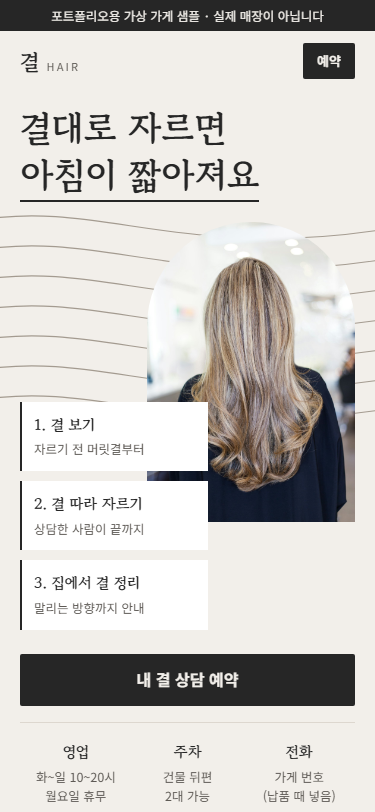
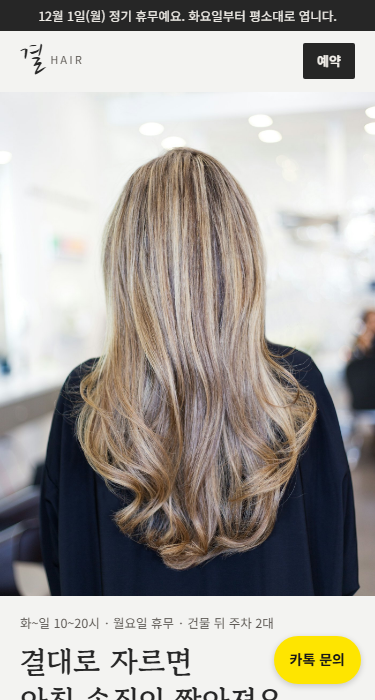
블라인드 6회 전 수정: 사진 겹침·꽉 찬 사진 띠, 투박한 문장, 카톡 상담 버튼, '예시' 문구 정리 + 캡처·6종 이미지 새로

diff --git a/samples/consulting.html b/samples/consulting.html
@@ -168,6 +168,8 @@ footer{border-top:1px solid var(--line);margin-top:var(--sec);padding:var(--s3) 
 }
 .disclose{font-weight:700;margin-bottom:6px}
 .logo{font-family:'Nanum Myeongjo',serif !important;font-size:21px !important;font-weight:400 !important;letter-spacing:0 !important}
+.bleed{margin:0}.bleed img{width:100%;height:46vh;min-height:260px;object-fit:cover}.bleed figcaption{font-size:var(--fs-small);color:var(--muted);padding:6px 16px 0;max-width:980px;margin:0 auto}
+.chat-fab{position:fixed;right:14px;bottom:16px;z-index:9;display:flex;align-items:center;min-height:48px;padding:0 16px;border-radius:24px;background:#FEE500;color:#191919;font-weight:700;font-size:14px;box-shadow:0 2px 6px rgba(0,0,0,.18)}
 </style>
 <!-- 구조화 데이터. 가상 샘플이라 주소는 가상 값. 납품 때는 고객이 준 정보만 넣는다 -->
 <script type="application/ld+json">
@@ -193,12 +195,13 @@ footer{border-top:1px solid var(--line);margin-top:var(--sec);padding:var(--s3) 
     <div class="hero" id="top">
       <h1>장부를 보면<br>다음 달에 할 일<br>하나가 보입니다.</h1>
       <p class="lead">창업 준비, 매출 점검, 정부지원사업 서류를 봅니다. 최근 석 달 매출 자료를 들고 <a class="inl" href="#contact">첫 상담 30분을 신청</a>해 주세요. 자료가 없으면 카드 매출 내역만 있어도 됩니다.</p>
-      <p class="fig num">상담 예시(동네 분식집): 버려진 재료 <b>68만 원</b> / 남은 돈 212만 원</p>
+      <p class="fig num">지난달 분식집 상담에서 본 숫자: 버려진 재료 <b>68만 원</b> / 남은 돈 212만 원</p>
     </div>
   </div>
 </div>
 
 <main>
+  <figure class="bleed"><img src="img/consulting/1.jpg" width="1400" height="933" alt="테이블에 모여 메모하며 회의하는 사람들"><figcaption>화요일 오후 상담실</figcaption></figure>
   <section aria-labelledby="h-promise">
     <div class="wrap split">
       <div>
@@ -227,11 +230,10 @@ footer{border-top:1px solid var(--line);margin-top:var(--sec);padding:var(--s3) 
       <h2 id="h-case">상담 사례</h2>
       <div class="cases">
         <article class="case">
-          <img src="img/consulting/1.jpg" width="1400" height="933" loading="lazy" alt="테이블에 모여 메모하며 회의하는 사람들">
           <div class="body">
             <h3>메뉴를 줄이고 마진을 다시 계산했습니다</h3>
             <dl><dt>고민</dt><dd>매출은 그대로인데 남는 돈이 줄었습니다</dd><dt>읽은 곳</dt><dd>메뉴별 원가표, 버려지는 재료</dd><dt>한 걸음</dt><dd>손이 많이 가는 메뉴 두 개를 정리했습니다</dd></dl>
-            <p class="who">동네 분식집 · 상담 예시</p>
+            <p class="who">동네 분식집</p>
           </div>
         </article>
         <article class="case">
@@ -239,11 +241,11 @@ footer{border-top:1px solid var(--line);margin-top:var(--sec);padding:var(--s3) 
           <div class="body">
             <h3>창업 전, 손익분기부터 확인했습니다</h3>
             <dl><dt>고민</dt><dd>공방 창업 비용이 얼마나 들지 막막했습니다</dd><dt>읽은 곳</dt><dd>초기 비용표, 월 고정비, 손익분기</dd><dt>한 걸음</dt><dd>규모를 줄여 시작하는 계획으로 바꿨습니다</dd></dl>
-            <p class="who">예비 창업자 · 상담 예시</p>
+            <p class="who">예비 창업자</p>
           </div>
         </article>
       </div>
-      <p class="note">실제 고객 사례가 아닌 디자인 예시입니다. 컨설팅 결과는 업종과 상황에 따라 다릅니다.</p>
+      <p class="note">결과는 업종이랑 상황마다 다릅니다.</p>
     </div>
   </section>
 
@@ -325,5 +327,6 @@ footer{border-top:1px solid var(--line);margin-top:var(--sec);padding:var(--s3) 
 <script>
   document.getElementById('demoForm').addEventListener('submit',function(e){e.preventDefault();document.getElementById('done').classList.add('show');});
 </script>
+<a class="chat-fab" href="#contact">카톡 상담</a>
 </body>
 </html>

diff --git a/samples/interior.html b/samples/interior.html
@@ -95,6 +95,8 @@ h2{font-size:var(--fs-5);line-height:1.4;font-weight:900;letter-spacing:-.01em}
 
 /* 시공 사례(사례) */
 .works{display:grid;gap:var(--s3);margin-top:var(--s3)}
+.works .work:first-child{margin:0 -16px;border-left:0;border-right:0}
+.works .work:first-child img{aspect-ratio:3/2}
 .work{background:#fff;border:1.5px solid var(--ink)}
 .work .ph{position:relative}
 .work img{width:100%;aspect-ratio:4/3;object-fit:cover}
@@ -163,6 +165,8 @@ footer p+p{margin-top:4px}
 }
 .disclose{font-weight:700;margin-bottom:6px}
 .logo{font-family:'Do Hyeon',sans-serif !important;font-size:24px !important;font-weight:400 !important;letter-spacing:0 !important}
+.chat-fab{position:fixed;right:14px;bottom:16px;z-index:9;display:flex;align-items:center;min-height:48px;padding:0 16px;border-radius:24px;background:#FEE500;color:#191919;font-weight:700;font-size:14px;box-shadow:0 2px 6px rgba(0,0,0,.18)}
+@media(min-width:860px){.works .work:first-child{margin:0}}
 </style>
 <!-- 구조화 데이터. 가상 샘플이라 주소는 가상 값. 납품 때는 고객이 준 정보만 넣는다 -->
 <script type="application/ld+json">
@@ -192,7 +196,7 @@ footer p+p{margin-top:4px}
     </div>
     <div>
       <h1>실측한 숫자 그대로<br>견적서를 씁니다</h1>
-      <p class="lead">주거 전체, 상가, 욕실·주방만. 현장에 먼저 가서 재고 항목별로 금액을 적어 드립니다.</p>
+      <p class="lead">아파트, 상가, 욕실이나 주방만 하는 것도 합니다. 일단 현장 가서 재 보고 항목별로 금액 적어 드려요.</p>
       <div class="acts"><a class="btn fill" href="#contact">견적 문의</a></div>
     </div>
   </div>
@@ -215,7 +219,7 @@ footer p+p{margin-top:4px}
   <section id="works" aria-labelledby="h-works">
     <div class="wrap">
       <h2 id="h-works">시공 사례</h2>
-      <p class="sub">평수와 기간은 디자인 예시입니다.</p>
+      
       <div class="works">
         <article class="work">
           <div class="ph"><img src="img/interior/3.jpg" width="1400" height="1025" loading="lazy" alt="흰 소파와 라탄 거울 두 개를 건 밝은 거실"></div>
@@ -229,7 +233,7 @@ footer p+p{margin-top:4px}
           <div class="body"><p class="where">상가 · 카페 18평</p><h3>원목 카운터와 펜던트 조명의 동네 카페</h3><dl><dt>범위</dt><dd>철거 · 전기 · 카운터 제작 · 조명</dd><dt>기간</dt><dd>약 4주</dd></dl></div>
         </article>
       </div>
-      <p class="note">실제 시공 사례가 아닙니다. 공사 기간과 비용은 현장 상태와 자재에 따라 달라집니다.</p>
+      <p class="note">공사 기간이랑 비용은 현장 상태, 자재 따라 달라집니다.</p>
     </div>
   </section>
 
@@ -239,7 +243,7 @@ footer p+p{margin-top:4px}
         <h2 id="h-cost">비용</h2>
         <p class="sub">같은 평수라도 현장마다 금액이 다릅니다. 실측과 견적서 작성에는 비용을 받지 않습니다.</p>
         <div class="est">
-      <p class="t"><span>욕실 부분 시공 견적서 예시</span><span>실측 후 작성</span></p>
+      <p class="t"><span>욕실 부분 시공 견적서 (11월)</span><span>실측 후 작성</span></p>
       <table class="num">
         <tr><th scope="row">철거 · 방수</th><td>1,200,000</td></tr>
         <tr><th scope="row">벽·바닥 타일</th><td>1,450,000</td></tr>
@@ -335,5 +339,6 @@ document.getElementById('demoForm').addEventListener('submit',function(e){
   m.className='msg show';m.textContent='데모 폼입니다. 실제로 전송되지 않으며 입력한 내용은 저장되지 않습니다.';
 });
 </script>
+<a class="chat-fab" href="#contact">카톡 상담</a>
 </body>
 </html>

diff --git a/samples/hair.html b/samples/hair.html
@@ -134,6 +134,12 @@ footer strong{color:var(--ink)}
 }
 .disclose{font-weight:700;margin-bottom:6px}
 .logo{font-family:'Nanum Brush Script',cursive !important;font-size:34px !important;font-weight:400 !important;letter-spacing:0 !important}
+.pile{position:relative;height:360px;margin-top:var(--s3)}
+.pile .p1{position:absolute;left:-16px;top:0;width:78%;height:280px;background:#3A3631 url(img/hair/1.jpg) center/cover}
+.pile .p2{position:absolute;right:-16px;bottom:0;width:52%;height:200px;background:#3A3631 url(img/hair/2.jpg) center/cover;border:6px solid var(--bg)}
+.prose{margin-top:var(--s3);font-size:17px;line-height:1.85;max-width:34em}
+.chat-fab{position:fixed;right:14px;bottom:16px;z-index:9;display:flex;align-items:center;gap:6px;min-height:48px;padding:0 16px;border-radius:24px;background:#FEE500;color:#191919;font-weight:700;font-size:14px;box-shadow:0 2px 6px rgba(0,0,0,.18)}
+@media(min-width:860px){.pile{height:520px}.pile .p1{left:0;height:420px}.pile .p2{right:0;height:280px}}
 </style>
 </head>
 <body>
@@ -155,15 +161,14 @@ footer strong{color:var(--ink)}
   </div>
 </section>
 
-<!-- 2. 결 3단계 상세 -->
+<!-- 2. 시술 순서: 사진 겹침(리듬 예외) -->
 <section class="sec" id="steps" aria-labelledby="steps-h"><div class="wrap">
-  <span class="tag">결 순서</span>
   <h2 id="steps-h">시술 순서</h2>
-  <div class="steps">
-    <article class="step"><span class="num">01</span><h3>결 보기</h3><p>자르기 전에 <b>머릿결이 눕는 방향</b>과 손상된 곳부터 봅니다. 평소 손질 시간도 여쭤봐요.</p></article>
-    <article class="step"><div class="ph" style="background-image:url(img/hair/1.jpg)" role="img" aria-label="디자이너가 드라이로 머리를 말리는 모습"></div><span class="num">02</span><h3>결 따라 자르기</h3><p>상담한 디자이너가 <b>자르고 마무리까지 혼자</b> 맡아요. 중간에 사람이 바뀌지 않습니다.</p></article>
-    <article class="step"><div class="ph" style="background-image:url(img/hair/2.jpg)" role="img" aria-label="샴푸대에서 머리를 감기는 모습"></div><span class="num">03</span><h3>집에서 결 정리</h3><p>집에서 <b>말리는 방향</b>과 쓰면 좋은 제품을 알려 드려요. 두피가 예민하면 약제부터 맞춥니다.</p></article>
+  <div class="pile">
+    <div class="p1" role="img" aria-label="디자이너가 드라이로 머리를 말리는 모습"></div>
+    <div class="p2" role="img" aria-label="샴푸대에서 머리를 감기는 모습"></div>
   </div>
+  <p class="prose">자르기 전에 머리 상태부터 봅니다. 결이 어느 쪽으로 눕는지, 상한 데가 어딘지 보고 평소에 손질을 몇 분 하시는지 여쭤봐요.<br><br>상담한 디자이너가 자르고 드라이까지 혼자 합니다. 중간에 사람 안 바뀌어요.<br><br>끝나면 집에서 말리는 방향이랑 쓰면 좋은 제품 알려 드립니다. 두피 예민하신 분은 약제부터 맞춰요.</p>
 </div></section>
 
 <!-- 3. 가격 -->
@@ -217,5 +222,6 @@ footer strong{color:var(--ink)}
   <p><strong>결 HAIR</strong> · 샘플시 샘플구 샘플로 00, 2층</p>
   <p>사진: Unsplash · 동네웹공방 제작(AI 도구 사용)</p>
 </footer>
+<a class="chat-fab" href="#visit">카톡 문의</a>
 </body>
 </html>

diff --git a/portfolio-img/redesign/overview.html b/portfolio-img/redesign/overview.html
@@ -1,0 +1,1 @@
+<!doctype html><meta charset=utf-8><style>*{margin:0;box-sizing:border-box}body{width:1720px;background:#EEF0F2;font-family:'Noto Sans KR',sans-serif;padding:24px}h1{font-size:26px;margin-bottom:14px}.g{display:flex;gap:12px}.c{width:232px}h2{font-size:18px;margin-bottom:6px}.lab{font-size:13px;color:#555;margin:8px 0 4px}.lab.new{color:#0B2545;font-weight:700}.box{height:450px;overflow:hidden;border-radius:10px;border:1px solid #ccc;background:#fff}.box img{width:100%;display:block}.ref{height:330px}.old{height:330px;opacity:.85}</style><h1>샘플 7개 — 레퍼런스(위) · 새 샘플(가운데) · 이전 샘플(아래), 휴대폰 첫 화면</h1><div class="g"><div class="c"><h2>미용실</h2><div class="lab">레퍼런스 · Kaleido Hair</div><div class="box ref"><img src="../../../company/design/references/ref-hair.png"></div><div class="lab new">새 샘플</div><div class="box"><img src="first-hair.png"></div><div class="lab">이전 샘플</div><div class="box old"><img src="old-hair.png"></div></div><div class="c"><h2>카페</h2><div class="lab">레퍼런스 · Monte</div><div class="box ref"><img src="../../../company/design/references/ref-cafe.png"></div><div class="lab new">새 샘플</div><div class="box"><img src="first-cafe.png"></div><div class="lab">이전 샘플</div><div class="box old"><img src="old-cafe.png"></div></div><div class="c"><h2>학원</h2><div class="lab">레퍼런스 · Applerouth</div><div class="box ref"><img src="../../../company/design/references/ref-academy.png"></div><div class="lab new">새 샘플</div><div class="box"><img src="first-academy.png"></div><div class="lab">이전 샘플</div><div class="box old"><img src="old-academy.png"></div></div><div class="c"><h2>컨설팅</h2><div class="lab">레퍼런스 · Bryce Bladon</div><div class="box ref"><img src="../../../company/design/references/ref-consulting.png"></div><div class="lab new">새 샘플</div><div class="box"><img src="first-consulting.png"></div><div class="lab">이전 샘플</div><div class="box old"><img src="old-consulting.png"></div></div><div class="c"><h2>인테리어</h2><div class="lab">레퍼런스 · Jessica Nelson</div><div class="box ref"><img src="../../../company/design/references/ref-interior.png"></div><div class="lab new">새 샘플</div><div class="box"><img src="first-interior.png"></div><div class="lab">이전 샘플</div><div class="box old"><img src="old-interior.png"></div></div><div class="c"><h2>공방 클래스</h2><div class="lab">레퍼런스 · BKLYN CLAY</div><div class="box ref"><img src="../../../company/design/references/ref-class.png"></div><div class="lab new">새 샘플</div><div class="box"><img src="first-class-landing.png"></div><div class="lab">이전 샘플</div><div class="box old"><img src="old-class-landing.png"></div></div><div class="c"><h2>꿀 상세</h2><div class="lab">레퍼런스 · Rare Beehive</div><div class="box ref"><img src="../../../company/design/references/ref-honey2.png"></div><div class="lab new">새 샘플</div><div class="box"><img src="first-detail-honey.png"></div><div class="lab">이전 샘플</div><div class="box old"><img src="old-honey.png"></div></div></div>

diff --git a/samples/academy.html b/samples/academy.html
@@ -174,7 +174,7 @@ footer p+p{margin-top:4px}
       <h2 id="h-fee">반과 교습비</h2>
       <p class="sub">반마다 요일과 시간이 다릅니다. 진단 결과를 보고 맞는 반을 함께 고릅니다.</p>
       <table class="fee">
-        <caption>예시 금액 · 교육청 신고 교습비 기준</caption>
+        <caption>교육청 신고 교습비 기준 (2026년)</caption>
         <thead><tr><th scope="col">반</th><th scope="col">요일 / 시간</th><th scope="col">월 교습비</th></tr></thead>
         <tbody>
           <tr><th scope="row">중등 기본<small>중1~중3</small></th><td>월·수·금<br>17:00–19:00</td><td>280,000원</td></tr>
@@ -208,7 +208,7 @@ footer p+p{margin-top:4px}
         <p class="sub">점수보다 '어느 계단까지 올랐는지'를 보여 드립니다.</p>
       </div>
       <div class="report">
-        <p class="cap">월간 리포트 예시 (중2 · 11월)</p>
+        <p class="cap">11월 월간 리포트 (중2)</p>
         <ul class="bars">
           <li><span>일차방정식</span><i style="--w:92%"></i><em>92%</em></li>
           <li><span>일차함수 뜻</span><i style="--w:78%"></i><em>78%</em></li>
